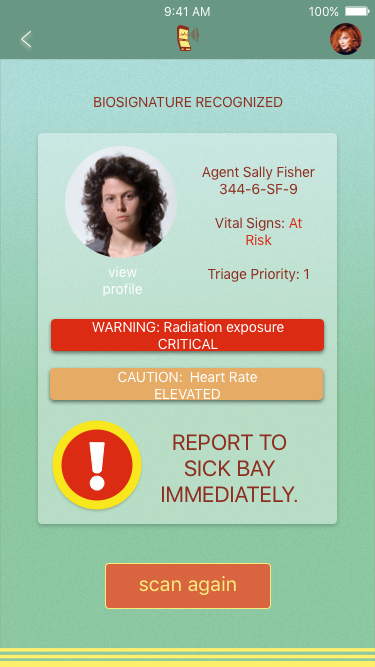
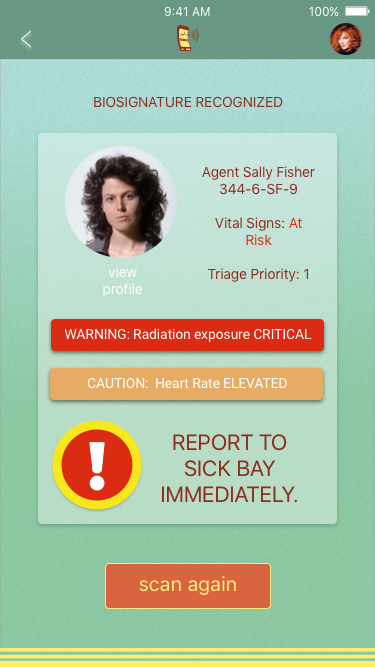
fix results screenshot

Changed region(s): [[0.176, 0.4798, 0.8213, 0.5997]]

diff --git a/css/styles.css b/css/styles.css
@@ -109,6 +109,7 @@ p {
 
 .scan-results {
   display: flex;
-  justify-content: center; }
+  justify-content: center;
+  margin: 1em; }
 
 /*# sourceMappingURL=styles.css.map */

diff --git a/scss/styles.scss b/scss/styles.scss
@@ -132,4 +132,5 @@ p {
 .scan-results {
   display: flex;
   justify-content: center;
+  margin: 1em;
 }
